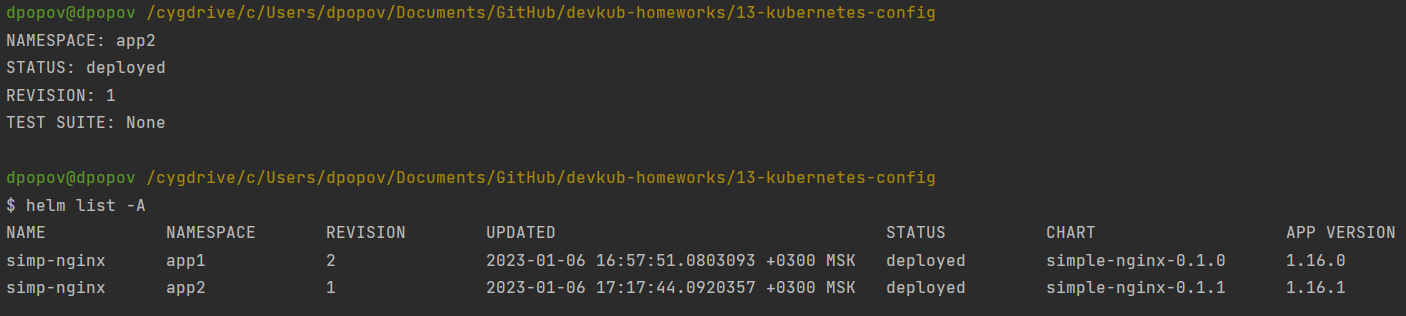
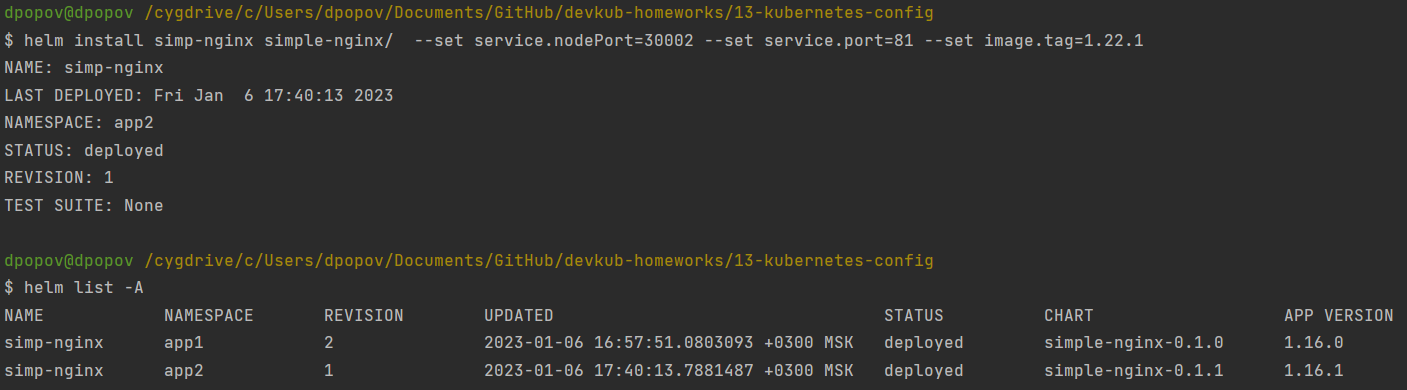
DZ 13.4 some pictures added

diff --git a/13-kubernetes-config-04-helm.md b/13-kubernetes-config-04-helm.md
@@ -141,9 +141,13 @@ Context "kubernetes-admin@cluster.local" modified.
 version=0.1.1
 appVersion=1.16.1
 ```
-   * Теперь установим чарт новой версии в нейспейсе _app2_
+   * Теперь установим чарт новой версии в нейспейсе _app2_ не забыв поменять переменные `port`, `nodePort` и `image.tag` для нормального запуска
 
 ![new_app2](img/img_43.png)
+
+   * Убедимся, что наше приложение нормально работает в кластере
+
+![cluster_ok](img/img_45.png)
 
 
 ## Задание 3 (*): повторить упаковку на jsonnet
